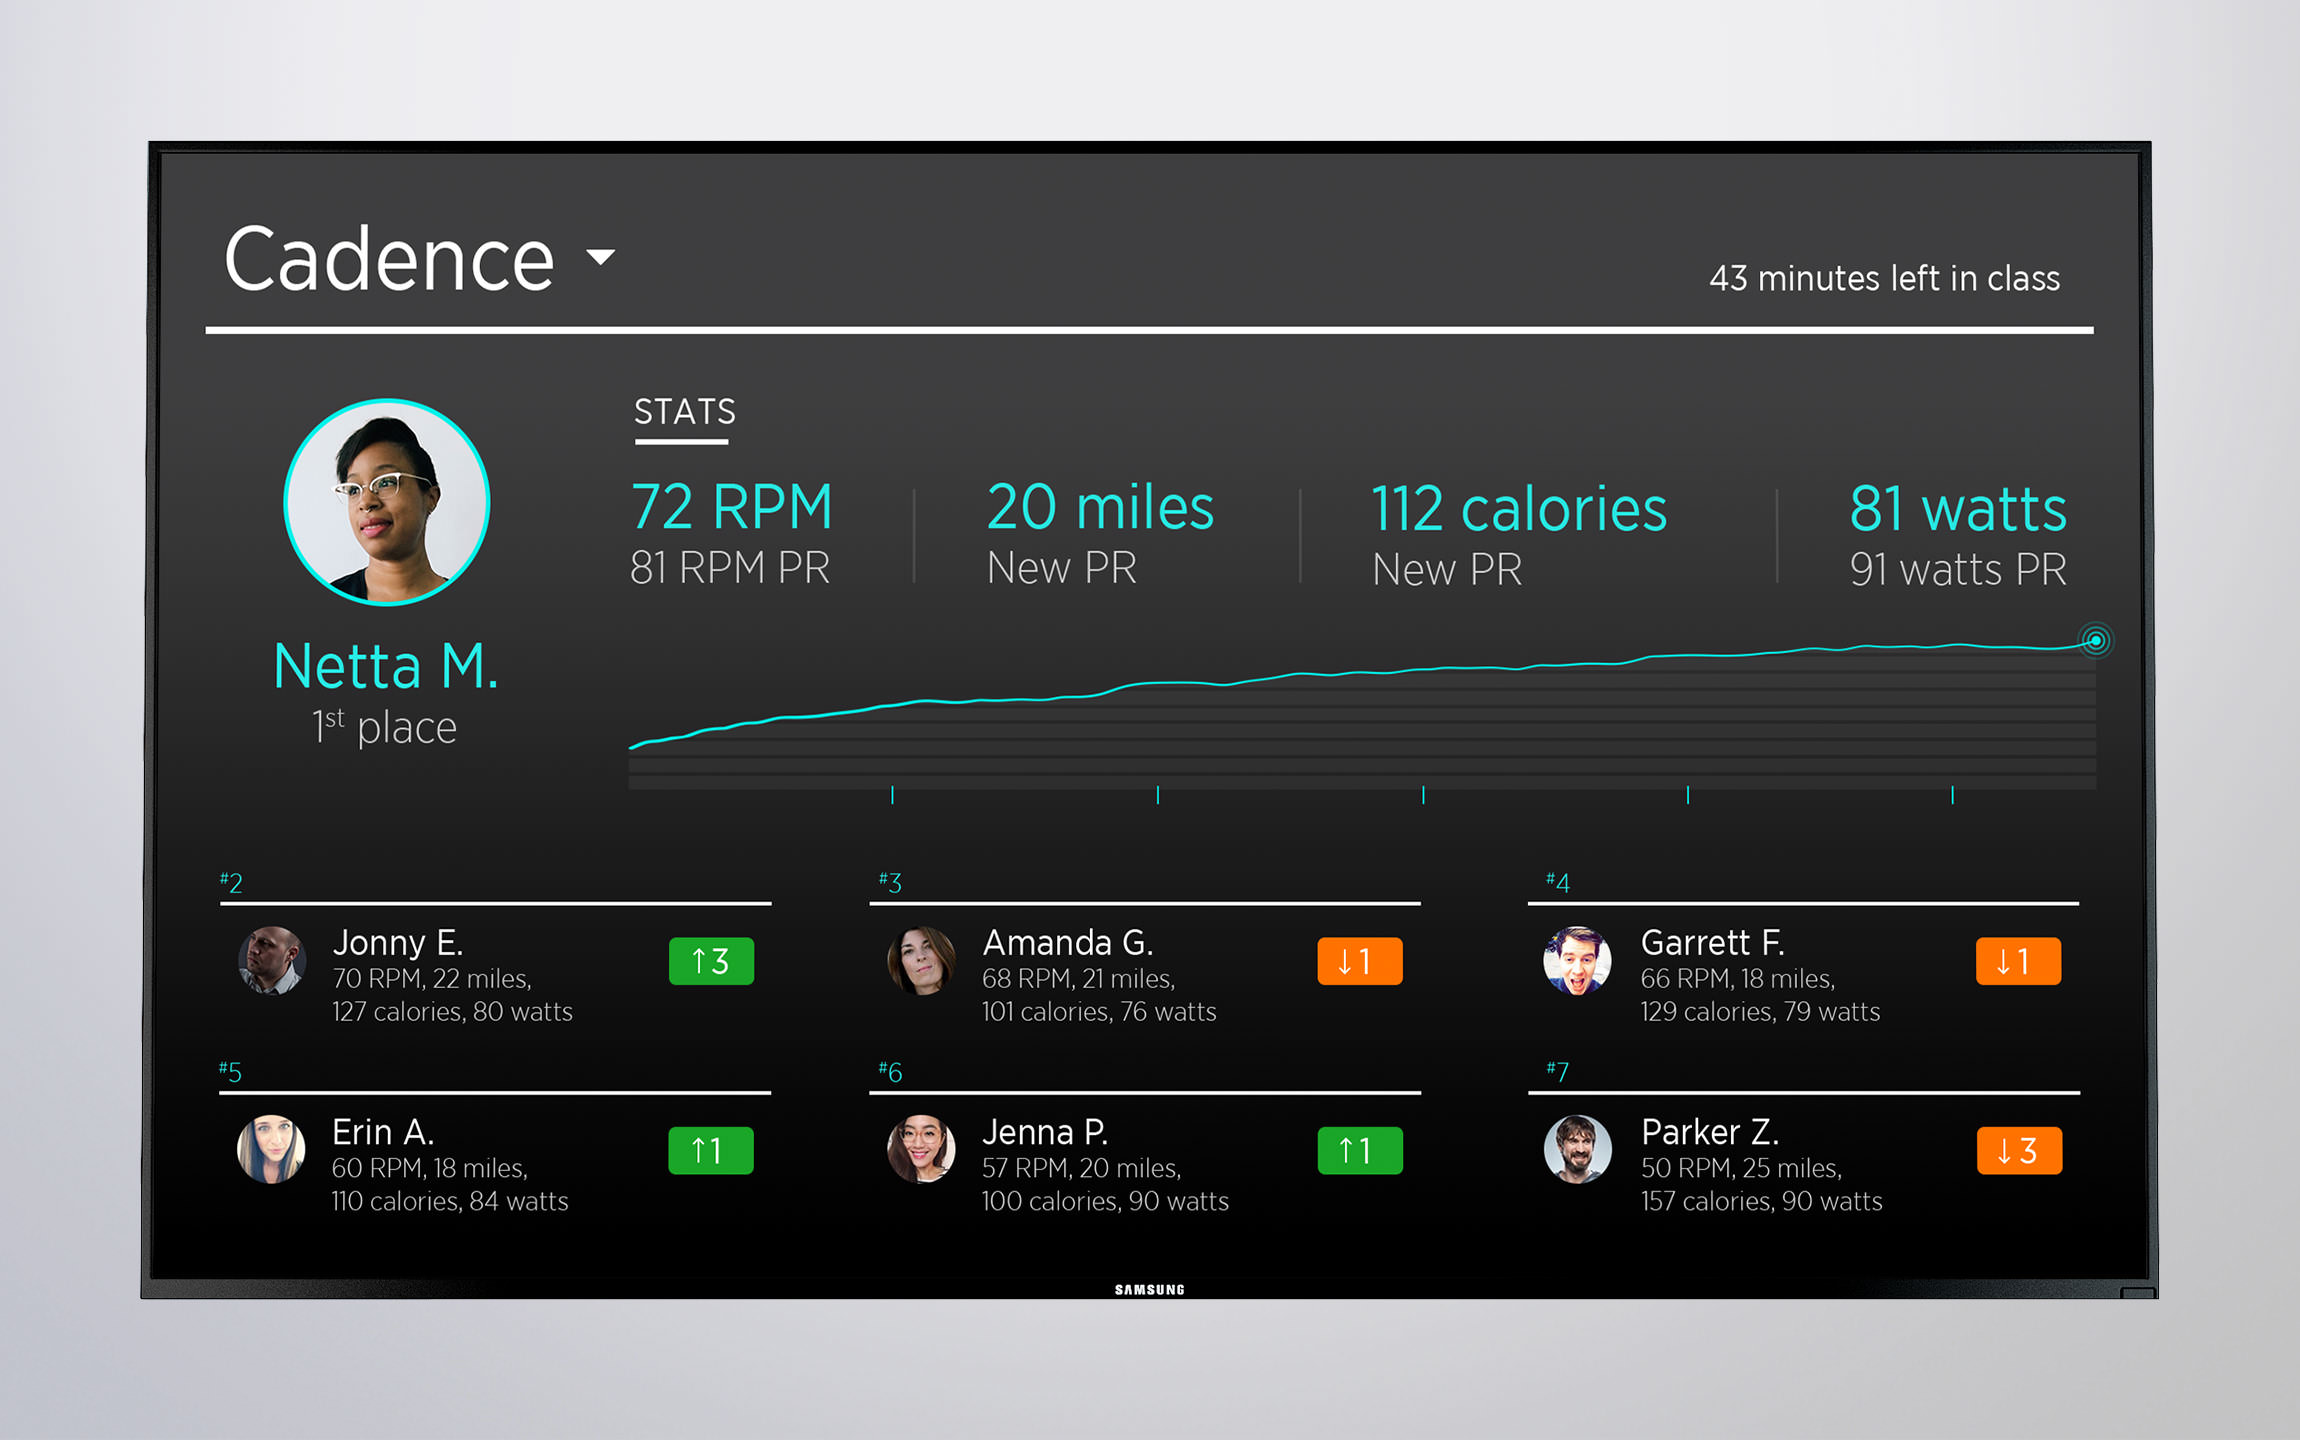
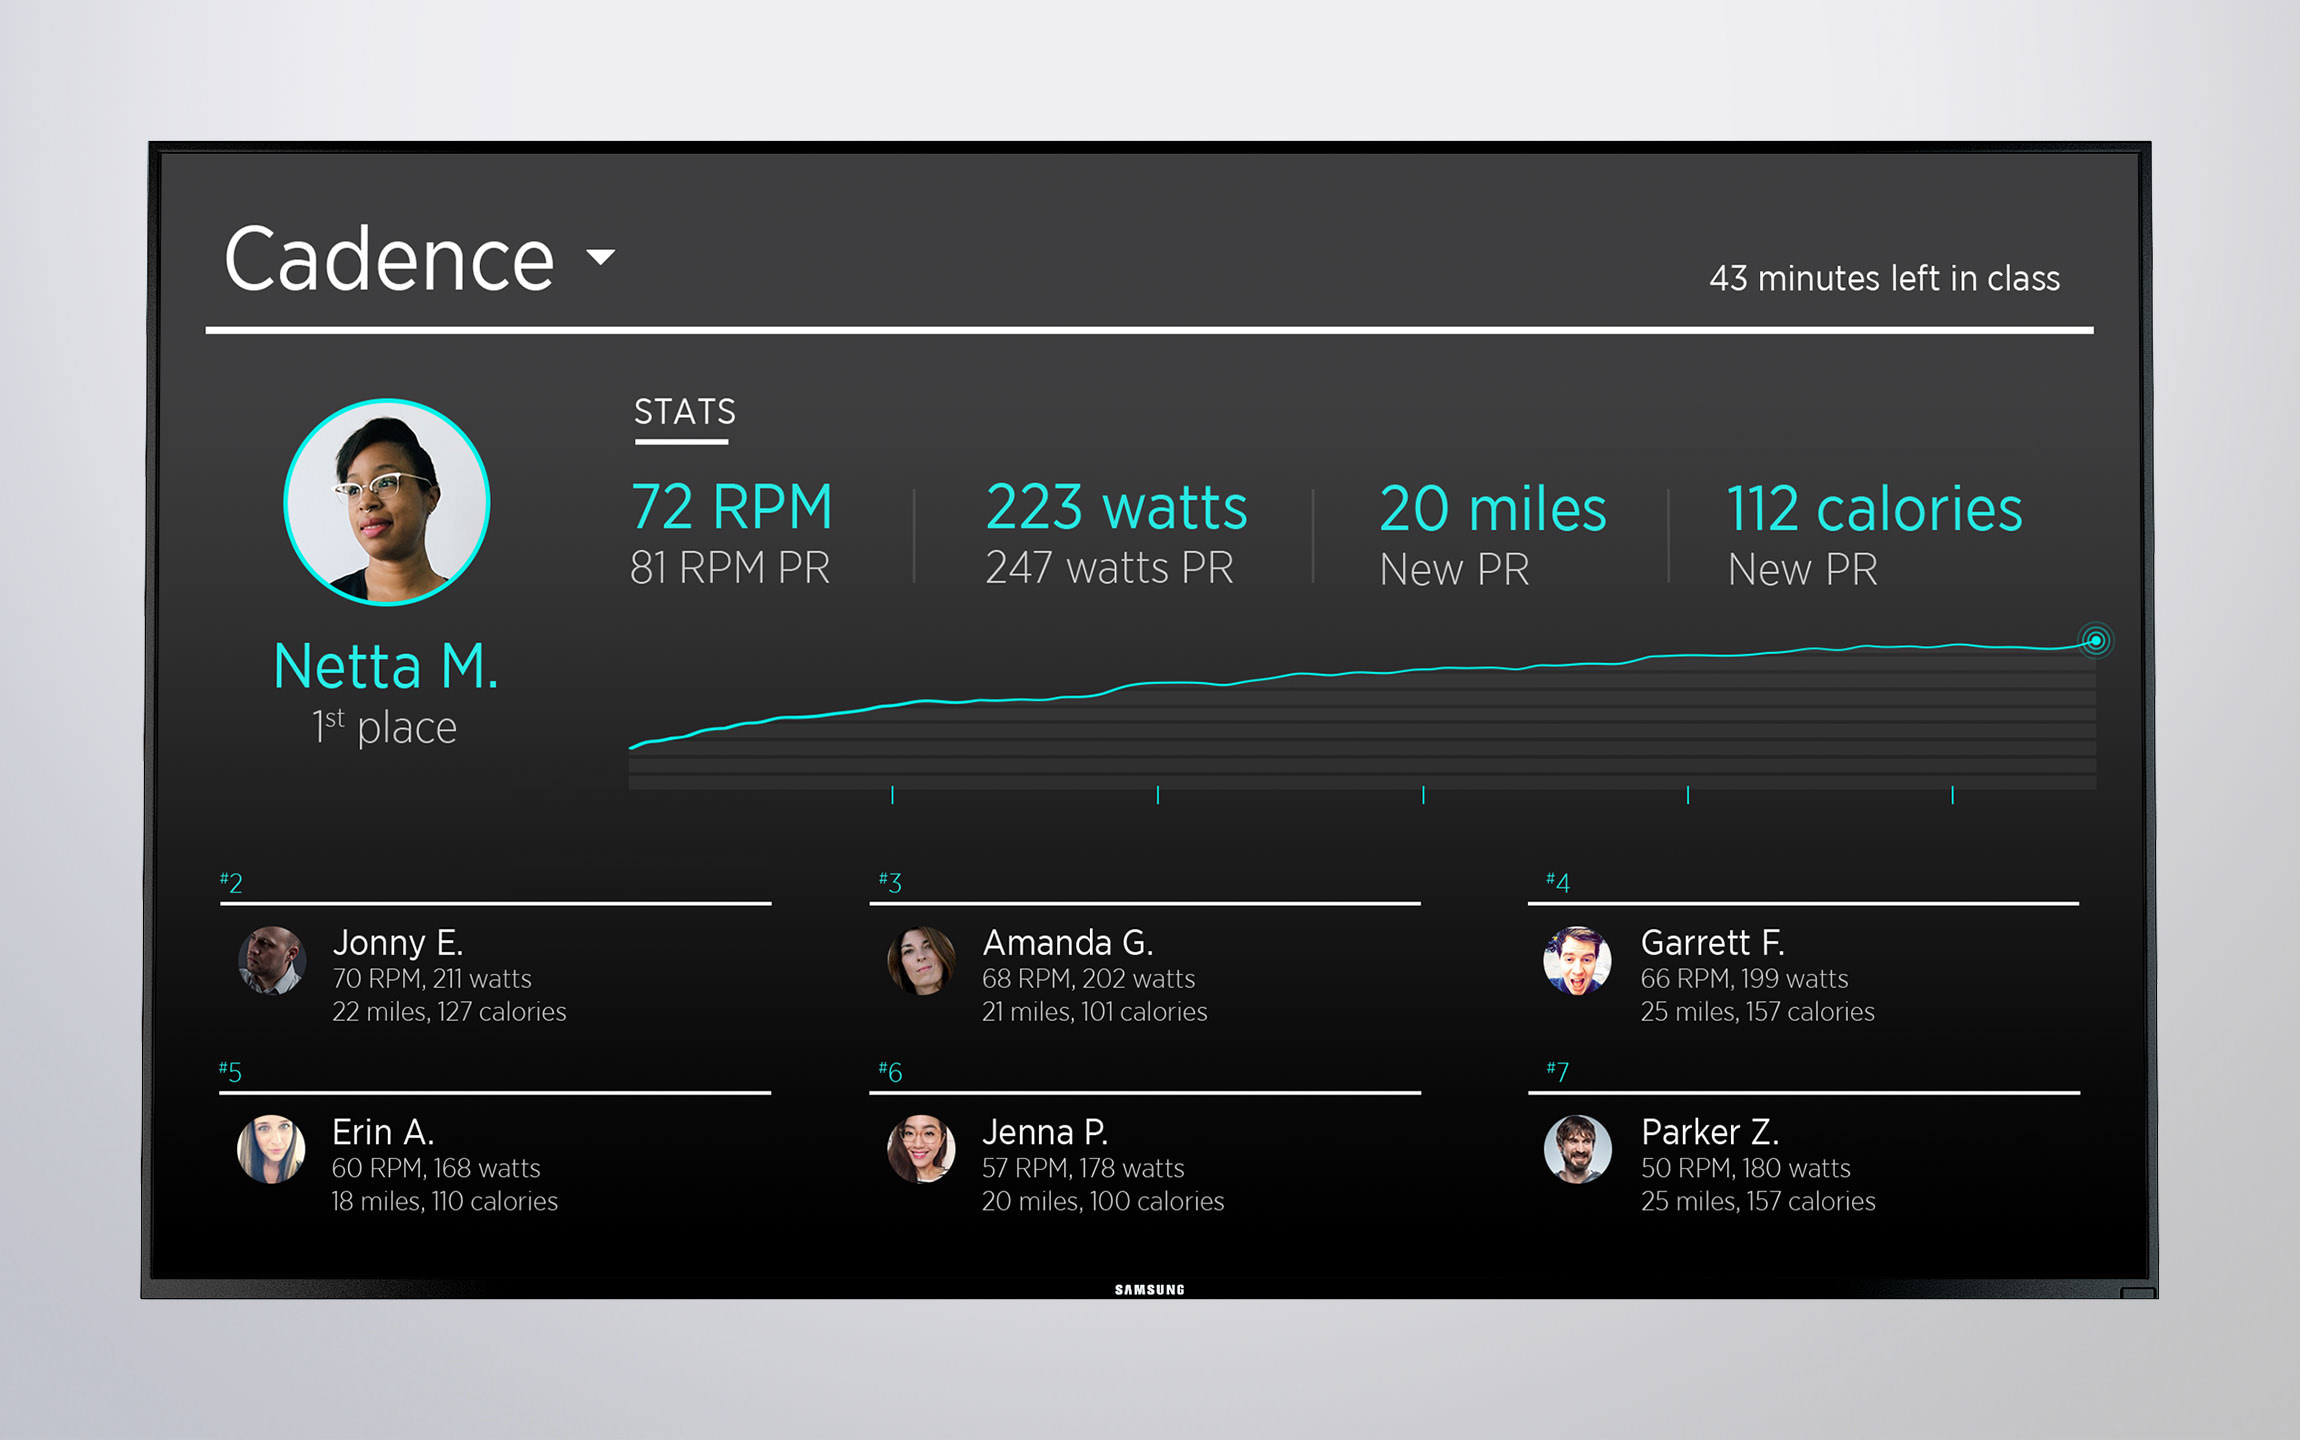
updated images' order of info, fixed a typo

diff --git a/gde/index.html b/gde/index.html
@@ -44,12 +44,12 @@
 			<div id="intro">
 				<h1>Competitve Spin Class</h1>
 				<br><br><p>OVERVIEW<br>
-				For my design exercise, I chose to tackle a digital leaderboard in a competitive spin class. Competition can be a huge motivator for active people, and I wanted to use personal records as well as other people in the class as motivating factors.</p>
+				For my design exercise, I chose to tackle a digital leaderboard for a competitive spin class. Competition can be a huge motivator for active people, and I wanted to use personal records as well as other people in the class as motivating factors.</p>
 			</div>
 			<div class="work"><img src="i/SpinOverview.jpg"></div>
 			<p class="description">THE RESEARCH<br>
 				I first wanted to understand what types of statistics one would encounter on an exercise bike. After doing some digging, a few seemed to pop up consistently: distance (measured in miles), cadence (measured in RPM), calories burned, and output (in watts). I took a look at the stats that a new stationary bike called Peloton shows, and these same stats surfaced there as well.
-				<br><br>Next, I started thinking about all the ways that one might want to organize and present this data from a class instructor point. I’m sure the instructor will be busy keeping a steady pace for the class, so being able to rearrange the leaderboard should be simple enough to do with one hand, if they instructor chooses to do it at all. The other alternative is that the stats are combined and form a weighted average and all class members are ranked against the same number.
+				<br><br>Next, I started thinking about all the ways that one might want to organize and present this data from a class instructor point. I’m sure the instructor will be busy keeping a steady pace for the class, so being able to rearrange the leaderboard should be simple enough to do with one hand, if the instructor chooses to do it at all. The other alternative is that the stats are combined and form a weighted average and all class members are ranked against the same number.
 				<br><br>I looked at leaderboards, most of which followed a standard vertical format. None really highlighted the person who held the #1 spot, and made it hard to differentiate the top performers from everyone else.</p>
 			<p class="description">USER EXPERIENCE<br>
 				I went through low fidelity explorations for different types of leaderboards. I knew that it would be displayed in a large room, so I wanted to make sure that it was easy to see who was is the top spot. It's something that you work hard to achieve, so that should be celebrated!
